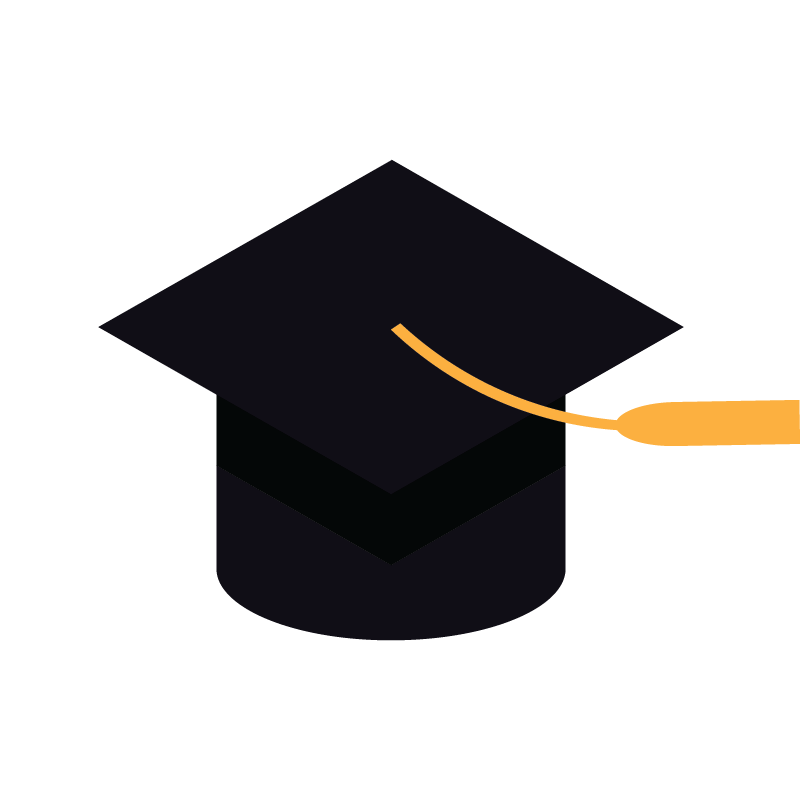
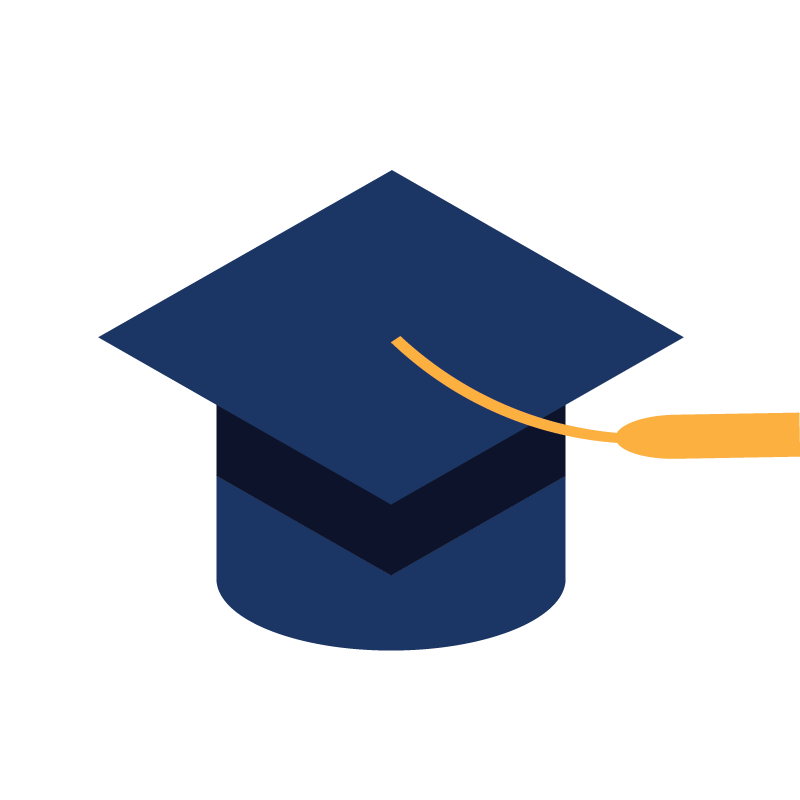
color changes, hat loader changes

Changed region(s): [[0.125, 0.1875, 1.0, 0.8125]]

diff --git a/pages/css/standard.css b/pages/css/standard.css
@@ -165,21 +165,21 @@
 
 /* Safari */
 @-webkit-keyframes spin {
-  0% { -webkit-transform: translateY(0px) rotate(0deg);
+  0% { -webkit-transform: translateY(300px) rotate(0deg);
      }
-  50% {-webkit-transform: translateY(-300px) rotate(360deg) ; 
+  50% {-webkit-transform: translateY(-200px) rotate(360deg) ; 
   }
-  100% {-webkit-transform: translateY(0) rotate(720deg) ; 
+  100% {-webkit-transform: translateY(300px) rotate(720deg) ; 
   }
 }
 
 @keyframes spin {
-  0% { transform:  translateY(0px) rotate(0deg);
+  0% { transform:  translateY(300px) rotate(0deg);
   }
   50%{
-       transform:  translateY(-300px) rotate(360deg) ;
+       transform:  translateY(-200px) rotate(360deg) ;
   }
-  100% { transform: translateY(0px) rotate(720deg) ;
+  100% { transform: translateY(300px) rotate(720deg) ;
   }
 }
 

diff --git a/pages/class-users.js b/pages/class-users.js
@@ -209,7 +209,7 @@ class ClassUsers extends Component{
         const titleStyle= {
             textAlign: 'center', 
             minHeight: "100vh", 
-            backgroundImage: "linear-gradient(rgba(16, 34, 88), rgba(4, 8, 22))  "  , 
+            backgroundImage: "linear-gradient(rgb(0, 0, 0), rgb(12, 26, 66))  "  , 
             backgroundAttachment: "fixed",     
             backgroundSize: "cover",
             color: "rgba(255, 255, 255, 0.9)",

diff --git a/pages/view-userpage.js b/pages/view-userpage.js
@@ -285,7 +285,7 @@ class ViewUserPage extends Component{
         const titleStyle= {
             textAlign: 'center', 
             minHeight: "100vh", 
-            backgroundImage: "linear-gradient(rgba(16, 34, 88), rgba(4, 8, 22))  " , 
+            backgroundImage: "linear-gradient(rgb(0, 0, 0), rgb(12, 26, 66))  " , 
             backgroundAttachment: "fixed",     
             backgroundSize: "cover",
             color: "rgba(255, 255, 255, 0.9)"

diff --git a/pages/register.js b/pages/register.js
@@ -154,7 +154,7 @@ class Register extends Component {
         const titleStyle= {
             textAlign: 'center', 
             minHeight: "100vh", 
-            backgroundImage: "linear-gradient(rgba(16, 34, 88), rgba(4, 8, 22))  " , 
+            backgroundImage: "linear-gradient(rgb(0, 0, 0), rgb(12, 26, 66))  " , 
             color: "rgba(255, 255, 255, 0.9)",
             backgroundAttachment: "fixed",     
             backgroundSize: "cover"

diff --git a/pages/dashboard/settings-panel.js b/pages/dashboard/settings-panel.js
@@ -154,7 +154,7 @@ class SettingsPanel extends Component {
     }
 
     return (
-        <div className= "dashboard-container" style= {{backgroundImage: "linear-gradient(rgba(16, 34, 88), rgba(4, 8, 22))  " , 
+        <div className= "dashboard-container" style= {{backgroundImage: "linear-gradient(rgb(0, 0, 0), rgb(12, 26, 66))  " , 
         paddingTop: "5vh"}}>
         <Row>
           <Col md={2}>

diff --git a/pages/login.js b/pages/login.js
@@ -72,7 +72,7 @@ class Login extends Component {
     const titleStyle= {
       textAlign: 'center', 
       minHeight: "100vh", 
-      backgroundImage: "linear-gradient(rgba(16, 34, 88), rgba(4, 8, 22))  " , 
+      backgroundImage: "linear-gradient(rgb(0, 0, 0), rgb(12, 26, 66))  " , 
       color: "rgba(255, 255, 255, 0.9)",
       backgroundAttachment: "fixed",     
       backgroundSize: "cover"

diff --git a/pages/about.js b/pages/about.js
@@ -10,7 +10,7 @@ class About extends Component {
     const titleStyle= {
       textAlign: 'center', 
       minHeight: "100vh", 
-      backgroundImage: "linear-gradient(rgba(16, 34, 88), rgba(4, 8, 22)) " , 
+      backgroundImage: "linear-gradient(rgb(0, 0, 0), rgb(12, 26, 66)) " , 
       color: "rgba(255, 255, 255, 0.9)",
       backgroundAttachment: "fixed",     
       backgroundSize: "cover"

diff --git a/pages/components/Loading.js b/pages/components/Loading.js
@@ -20,7 +20,7 @@ class Loading extends Component{
     const titleStyle= {
       textAlign: 'center', 
       minHeight: "100vh", 
-      backgroundImage: "linear-gradient(rgba(16, 34, 88), rgba(4, 8, 22))" , 
+      backgroundImage: "linear-gradient(rgb(0, 0, 0), rgb(12, 26, 66))" , 
       backgroundAttachment: "fixed",     
       backgroundSize: "cover", 
       color: "rgba(255, 255, 255, 0.9)"

diff --git a/pages/dashboard/profile-panel.js b/pages/dashboard/profile-panel.js
@@ -243,7 +243,7 @@ class ProfilePanel extends Component {
     </div>)
 
     return (
-      <div className= "dashboard-container" style= {{backgroundImage: "linear-gradient(rgba(16, 34, 88), rgba(4, 8, 22))  " , 
+      <div className= "dashboard-container" style= {{backgroundImage: "linear-gradient(rgb(0, 0, 0), rgb(12, 26, 66))  " , 
       paddingTop: "5vh"}}>
       <Row>
         <Col md={2}>

diff --git a/pages/dashboard/welcome-panel.js b/pages/dashboard/welcome-panel.js
@@ -13,7 +13,7 @@ class WelcomePanel extends Component {
   render() {
     return (
         <div className= "dashboard-container" 
-        style= {{backgroundImage: "linear-gradient(rgba(16, 34, 88), rgba(4, 8, 22))  " , 
+        style= {{backgroundImage: "linear-gradient(rgb(0, 0, 0), rgb(12, 26, 66))  " , 
                  paddingTop: "5vh"}}>
         <Row>
           <Col md={2}>

diff --git a/pages/app.js b/pages/app.js
@@ -25,7 +25,7 @@ class App extends Component{
       const titleStyle= {
         textAlign: 'center', 
         minHeight: "100vh", 
-        backgroundImage: "linear-gradient(rgba(16, 34, 88), rgba(4, 8, 22))  "      
+        backgroundImage: "linear-gradient(rgb(0, 0, 0), rgb(12, 26, 66))  "      
       }
 
         return (

diff --git a/pages/components/Header.js b/pages/components/Header.js
@@ -74,7 +74,7 @@ class Header extends Component{
     
     var headerStyle={position: "fixed", 
     width: "100vw", 
-    backgroundImage: "linear-gradient(rgba(16, 34, 88, 0.4), rgba(0, 0, 0, 0))",
+    backgroundImage: "linear-gradient(rgba(0, 0, 0, 0.4), rgba(0, 0, 0, 0))",
     zIndex:"2"
     }
 
